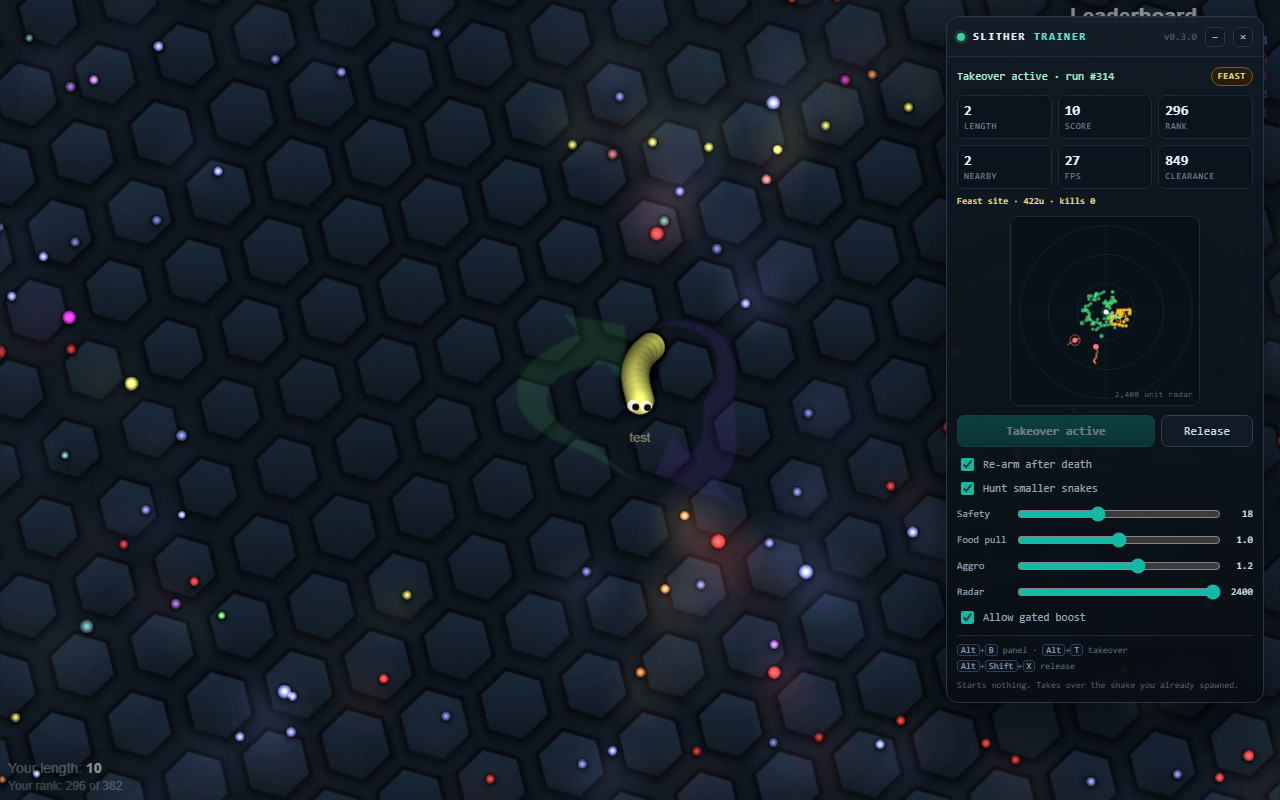
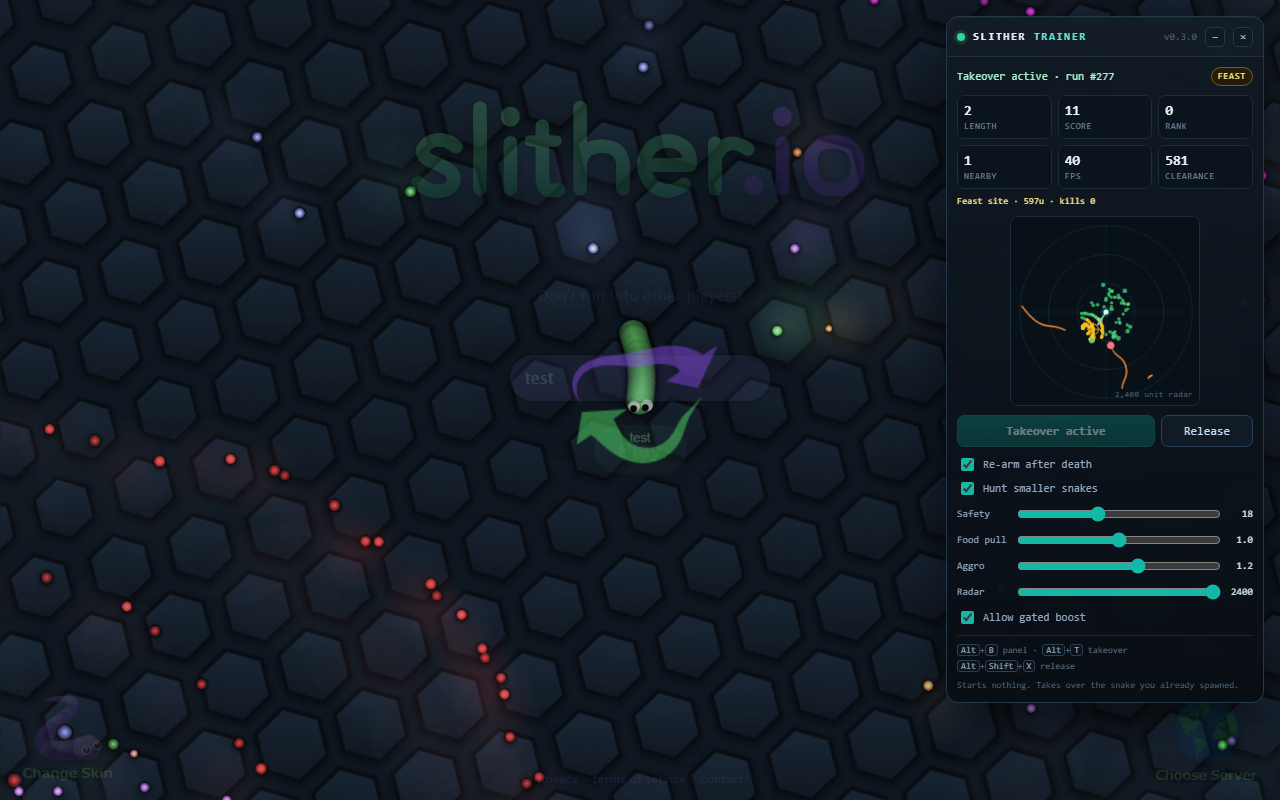
Improve evasive prey hunting behavior
Refine hunt targeting, flank maneuvers, and boost timing to pursue evasive snakes while reducing risky close-range chases. Add evasive-prey simulation modes and update trainer assets.

diff --git a/panel/trainer/trainer.js b/panel/trainer/trainer.js
@@ -83,8 +83,8 @@
     CUT_BOOST_COOLDOWN: 3400,
     CHASE_BOOST_MS: 280,
     CHASE_BOOST_COOLDOWN: 2600,
-    HUNT_BOOST_MS: 500,
-    HUNT_BOOST_COOLDOWN: 1000,
+    HUNT_BOOST_MS: 700,
+    HUNT_BOOST_COOLDOWN: 450,
     PREV_BONUS: 10,
     RADAR_RANGE: 2400,
     HUNT_MIN_LEN: 6,
@@ -222,6 +222,8 @@
     huntTargetId: null,
     huntTarget: null,
     huntUntil: 0,
+    huntCooldownId: null,
+    huntCooldownUntil: 0,
     kills: 0,
     corpse: null,
     deadIds: {},
@@ -700,10 +702,23 @@
       byId[threats.snakes[i].id] = threats.snakes[i];
     }
     var current = state.huntTargetId ? byId[String(state.huntTargetId)] : null;
-    if (current && now < state.huntUntil && current.d < TUNE.HUNT_MAX_DIST * 1.3 &&
+    var currentCooling = current && state.huntCooldownId &&
+      String(state.huntCooldownId) === String(current.id) &&
+      now < state.huntCooldownUntil;
+    if (current && !currentCooling && now < state.huntUntil &&
+        current.d < TUNE.HUNT_MAX_DIST * 1.3 &&
         current.sct <= selfLen * 0.98) {
-      state.huntTarget = current;
-      return current;
+      var currentToT = Math.atan2(current.y - me.yy, current.x - me.xx);
+      var currentAway = Math.cos(angleDiff(current.ang, currentToT));
+      // A target that boosts or turns into a faster runner is no longer a
+      // kill; it is a chase that drags the trainer across the map. Drop the
+      // lock before that happens, not after thirty seconds of pursuit.
+      var uncatchable = (current.boost && current.d > 200) ||
+        (currentAway > 0.55 && current.speed >= selfSpeed * 0.98);
+      if (!uncatchable) {
+        state.huntTarget = current;
+        return current;
+      }
     }
 
     var aggression = clamp(num(state.settings.aggression, 1), 0, 2);
@@ -715,6 +730,11 @@
     var best = null;
     for (i = 0; i < threats.snakes.length; i++) {
       var s = threats.snakes[i];
+      // A target that just forced us to bail out at head-contact range gets
+      // a short cooldown. Reacquiring it immediately made the trainer turn
+      // straight back into the body it had just escaped.
+      if (state.huntCooldownId && now < state.huntCooldownUntil &&
+          String(state.huntCooldownId) === String(s.id)) continue;
       if (s.sct < 4 || s.sct > selfLen * maxRatio) continue;
       if (s.d < TUNE.HUNT_MIN_DIST || s.d > maxDist) continue;
       if (s.boost && s.d > 260) continue;
@@ -729,9 +749,11 @@
       if (targetWall < 360) continue;
       var toTarget = Math.atan2(s.y - me.yy, s.x - me.xx);
       var away = Math.cos(angleDiff(s.ang, toTarget));
-      // A smaller snake running directly away at the same speed cannot be
-      // caught without a risky boost. Ignore it and look for a crossing.
-      if (away > 0.55 && s.speed >= selfSpeed * 0.9) continue;
+      // A snake running directly away at our speed or faster cannot be
+      // caught without giving up the farming line, and following it drags
+      // the trainer across the map for nothing. Slower runners and crossing
+      // snakes stay on the list; those are the catchable kills.
+      if (away > 0.55 && s.speed >= selfSpeed * 0.98) continue;
       var ratio = s.sct / Math.max(1, selfLen);
       var score = 50 + s.sct * 1.4 + (maxDist - s.d) * 0.045 -
         ratio * 28 - crowd * 26 - (s.boost ? 35 : 0);
@@ -918,6 +940,9 @@
         // instead of rear-ending its tail, then cut across when we are ahead.
         var chaseLead = clamp(td / Math.max(180, ctx.speed + htSpeed), 0.25, 1.6);
         var sideOff = ht.r + selfR + safety + 30;
+        // Close to a fleeing snake, the normal standoff is too narrow to
+        // clear its tail. Open the flank so a boost can actually overtake.
+        if (td < 420) sideOff *= 1.5;
         var chaseX = htX + Math.cos(htAng) * htSpeed * chaseLead -
           Math.sin(htAng) * sideOff * ctx.huntSide;
         var chaseY = htY + Math.sin(htAng) * htSpeed * chaseLead +
@@ -1037,13 +1062,27 @@
 
     var target = selectHuntTarget(me, threats, arena, now);
     var selfLen = Math.max(0, num(me.sct, 0));
+    if (target && target.d < selfR + snakeRadius(target) + 70 &&
+        (target.sct >= Math.max(16, selfLen * 0.75) || target.boost)) {
+      // Head-to-head at this range is a coin flip: our head can touch the
+      // target body just as easily as its head can touch ours. Bail out,
+      // let the target run into the body behind us, and do not reacquire it
+      // for a moment. A genuinely tiny snake has a short body and cannot
+      // cover the same distance, so the close cut is still worth taking.
+      state.huntCooldownId = String(target.id);
+      state.huntCooldownUntil = now + 1200;
+      target = null;
+      state.huntTarget = null;
+      state.huntTargetId = null;
+      state.boostUntil = 0;
+    }
     var modeDanger = danger;
     if (target) {
       // Ignore the target itself when deciding whether hunting is safe.
       // Otherwise an incoming smaller snake would always look like danger,
       // and the trainer would flee instead of cutting across its nose.
       modeDanger = assessDanger(me, threats, arena, target.id);
-      var keepSmall = target.sct < selfLen * 0.8 && target.d < 520;
+      var keepSmall = target.sct < selfLen * 0.65 && target.d < 380;
       if ((modeDanger.urgent || modeDanger.level > 0.58) && !keepSmall) {
         target = null;
         state.huntTarget = null;
@@ -1055,9 +1094,14 @@
           (target.y - me.yy) * Math.sin(target.ang);
         if (target.d < 340 && along < -30) target.maneuver = 'cut';
         else if (target.d < 420 && facing < -0.1) target.maneuver = 'cut';
+        else if (target.d < 240 && facing > 0.4) target.maneuver = 'cut';
         else if (facing > 0.3) target.maneuver = 'chase';
-        else if (target.d < 460) target.maneuver = 'coil';
-        else target.maneuver = 'hunt';
+        else if (target.d < 460) {
+          // A slower target cannot outrun the cut; circling it with coil
+          // only burns time. Equal or faster prey is the case where the
+          // tangent coil actually helps bring the body around.
+          target.maneuver = target.speed < baseSpeed * 0.95 ? 'cut' : 'coil';
+        } else target.maneuver = 'hunt';
         target.huntSide = chooseHuntSide(me, target, arena, threats.heads);
         var fromTarget = Math.atan2(me.yy - target.y, me.xx - target.x);
         var lateral = Math.sin(angleDiff(fromTarget, target.ang));
@@ -1073,12 +1117,22 @@
         state.huntTarget = target;
       }
     }
+    if (modeDanger.chase) state.chaseUntil = now + 1600;
+    var chaseActive = now < state.chaseUntil;
     if (chaseActive) {
-      modeDanger.level = Math.max(modeDanger.level, 0.62);
-      if (target) {
-        target = null;
-        state.huntTarget = null;
-        state.huntTargetId = null;
+      // A small target can be finished quickly, but only when the snake
+      // chasing us is still far away. Ignoring a close chaser to chase a
+      // minnow is how a short run turns into a death.
+      var chaser = modeDanger.nearest || danger.nearest;
+      var committedSmall = target && target.sct < selfLen * 0.7 &&
+        target.d < 320 && (!chaser || chaser.d > 650);
+      if (!committedSmall) {
+        modeDanger.level = Math.max(modeDanger.level, 0.62);
+        if (target) {
+          target = null;
+          state.huntTarget = null;
+          state.huntTargetId = null;
+        }
       }
     }
 
@@ -1240,13 +1294,20 @@
     else if (state.corpse && state.settings.foodPull > 0) mode = 'feast';
     else if (best.foodScore > 0.5) mode = 'farm';
 
-    // A hunt that is already scraping a body is not a hunt; it is a
-    // survival problem. Drop the target and let clearance lead.
-    if (target && best.minClear < TUNE.DANGER_CLEAR) {
+    // The target's own body is part of minClear, so a normal close chase
+    // routinely sits below DANGER_CLEAR. Dropping the hunt at the full
+    // threshold turned every equal-speed pursuit into a stalemate. A slower
+    // target cannot ram us, so press that kill all the way in; against an
+    // equal or faster snake, abandon a genuinely tight line and cancel the
+    // hunt boost so the trainer cannot coast into the body.
+    var closeLimit = target && target.speed < baseSpeed * 0.95 ?
+      0 : TUNE.DANGER_CLEAR * 0.5;
+    if (target && best.minClear < closeLimit) {
       mode = 'danger';
       target = null;
       state.huntTarget = null;
       state.huntTargetId = null;
+      state.boostUntil = 0;
     }
 
     var boost = now < state.boostUntil;
@@ -1278,7 +1339,7 @@
     // only when the current path is clear; it is never used to chase food.
     if (!boost && target && state.settings.boostEscape &&
         now > state.cutBoostCooldownUntil && mode === 'cut' &&
-        target.d > 120 && target.d < 540 && num(me.sct, 0) >= 24 &&
+        target.d > 120 && target.d < 540 && num(me.sct, 0) >= 12 &&
         best.minClear > 20 && best.minWall > 120) {
       var cutTo = Math.atan2(target.y - me.yy, target.x - me.xx);
       if (Math.cos(angleDiff(best.heading, cutTo)) > 0.05) {
@@ -1308,13 +1369,28 @@
     if (!boost && target && state.settings.boostEscape && mode !== 'escape' &&
         now > state.huntBoostCooldownUntil &&
         (mode === 'cut' || mode === 'chase' || mode === 'coil' || mode === 'hunt') &&
-        target.d > 110 && target.d < 620 &&
+        target.d > 110 && target.d < TUNE.HUNT_MAX_DIST * 1.15 &&
         target.speed < baseSpeed * 1.06 &&
         target.sct <= num(me.sct, 0) * 0.92 &&
-        num(me.sct, 0) >= 12 &&
-        best.minClear > 26 && best.minWall > 120) {
+        num(me.sct, 0) >= 8 &&
+        // The target's own body is part of minClear. A fixed 26-unit gate
+        // therefore disables the boost exactly when the prey is close enough
+        // to catch, leaving the trainer to follow at equal speed forever.
+        best.minClear > TUNE.DANGER_CLEAR - 2 && best.minWall > 120) {
+      var huntFromT = Math.atan2(me.yy - target.y, me.xx - target.x);
+      var huntLat = Math.abs(Math.sin(angleDiff(huntFromT, target.ang))) * target.d;
       var huntTo = Math.atan2(target.y - me.yy, target.x - me.xx);
-      if (Math.cos(angleDiff(best.heading, huntTo)) > 0.1) {
+      var huntAlign = Math.cos(angleDiff(best.heading, huntTo));
+      // Directly behind a close, equal-speed snake, boosting straight at it
+      // only pushes our head into its tail. A slower target is still safe to
+      // run down. Against an equal-speed kiter, boost only when the planned
+      // line is visibly off the tail and there is enough clearance to pass.
+      var tailRisk = huntLat < 45 && target.d < 300 &&
+        target.speed > baseSpeed * 0.95;
+      var flankBoost = !tailRisk ||
+        (huntAlign < 0.97 && target.d > 190 && best.minClear > TUNE.DANGER_CLEAR);
+      if (flankBoost && huntAlign > -0.6 &&
+          (target.d > 260 || huntLat > 70 || huntAlign < 0.86)) {
         state.boostUntil = now + TUNE.HUNT_BOOST_MS;
         state.huntBoostCooldownUntil = now + TUNE.HUNT_BOOST_MS + TUNE.HUNT_BOOST_COOLDOWN;
         boost = true;
@@ -2160,6 +2236,8 @@
     state.huntTargetId = null;
     state.huntTarget = null;
     state.huntUntil = 0;
+    state.huntCooldownId = null;
+    state.huntCooldownUntil = 0;
     state.cutBoostCooldownUntil = 0;
     state.chaseBoostCooldownUntil = 0;
     state.huntBoostCooldownUntil = 0;
@@ -2343,3 +2421,4 @@
 
   boot();
 })();
+

diff --git a/panel/trainer/tests/sim_modes.html b/panel/trainer/tests/sim_modes.html
@@ -128,6 +128,23 @@
     var peerPrey = makeEnemy(2, 16384 + 330, 16384 + 20, Math.PI / 2, 4.8, 52);
     peerPrey.noHome = true;
     enemies = [peerPrey];
+  } else if (mode === "hunt_evasive") {
+    // Live prey does not drive in a straight line. It turns away from the
+    // player and refuses to run into a body, which is the case a straight
+    // line test never exercises.
+    selfMax = 60;
+    self.sct = 60;
+    var evasivePrey = makeEnemy(2, 16384 + 330, 16384 + 20, Math.PI / 2, 5.5, 20);
+    evasivePrey.noHome = true;
+    evasivePrey.evasive = true;
+    enemies = [evasivePrey];
+  } else if (mode === "hunt_evasive_peer") {
+    selfMax = 60;
+    self.sct = 60;
+    var evasivePeer = makeEnemy(2, 16384 + 330, 16384 + 20, Math.PI / 2, 5.0, 52);
+    evasivePeer.noHome = true;
+    evasivePeer.evasive = true;
+    enemies = [evasivePeer];
   } else if (mode === "hunt_bigger") {
     selfMax = 40;
     self.sct = 40;
@@ -303,9 +320,31 @@
     for (var e = 0; e < enemies.length; e++) {
       var o = enemies[e];
       if (!o.sp || o.dead) continue;
-      if (!o.noHome) {
+      var want;
+      if (o.evasive) {
+        // Run from the player's head, but also steer away from its body.
+        // A pure away vector lets the trainer herd prey in a circle; the
+        // repulsion makes the prey contest the actual body trap.
+        var flee = Math.atan2(o.yy - self.yy, o.xx - self.xx);
+        var vx = Math.cos(flee);
+        var vy = Math.sin(flee);
+        for (var q = 0; q < self.pts.length; q += 3) {
+          var bp = self.pts[q];
+          var bdx = o.xx - bp.xx;
+          var bdy = o.yy - bp.yy;
+          var bd = Math.hypot(bdx, bdy);
+          if (bd > 1 && bd < 240) {
+            var push = (1 - bd / 240) * 2.2;
+            vx += bdx / bd * push;
+            vy += bdy / bd * push;
+          }
+        }
+        want = Math.atan2(vy, vx);
+      } else if (!o.noHome) {
         // Home toward the player so head-on and crossing scenarios stay honest.
-        var want = Math.atan2(self.yy - o.yy, self.xx - o.xx);
+        want = Math.atan2(self.yy - o.yy, self.xx - o.xx);
+      }
+      if (want !== undefined) {
         var d = (want - o.ang + Math.PI) % (Math.PI * 2);
         if (d < 0) d += Math.PI * 2;
         d -= Math.PI;

diff --git a/panel/trainer/tests/test_modes.py b/panel/trainer/tests/test_modes.py
@@ -39,6 +39,8 @@ DEFAULT_MODES = [
     "hunt_flee",
     "hunt_early",
     "hunt_peer",
+    "hunt_evasive",
+    "hunt_evasive_peer",
     "hunt_bigger",
     "hunt_crowd",
     "body_far_head",
@@ -84,8 +86,14 @@ def main() -> int:
                     ".shadowRoot.getElementById('takeBtn').click()"
                 )
                 # Early/peer chases need enough time to close a 300+ unit gap
-                # without a cut boost; keep the rest of the suite fast.
-                seconds = max(args.seconds, 12.0) if mode in ("hunt_early", "hunt_peer") else args.seconds
+                # without a cut boost; the early target is short and the
+                # first cut can overshoot, so give it a little more margin.
+                if mode == "hunt_early":
+                    seconds = max(args.seconds, 16.0)
+                elif mode in ("hunt_peer", "hunt_evasive", "hunt_evasive_peer"):
+                    seconds = max(args.seconds, 12.0)
+                else:
+                    seconds = args.seconds
                 early = None
                 if mode == "body_target_last":
                     # The trainer is now aggressive enough to kill this
@@ -151,6 +159,11 @@ def main() -> int:
                     ok = ok and (final_target_ok or early_target_ok)
                 if mode in ("hunt_early", "hunt_peer"):
                     ok = ok and info["sim"].get("kills", 0) >= 1
+                # hunt_evasive / hunt_evasive_peer are pressure scenarios:
+                # the prey flees perfectly and matches our speed, so the
+                # trainer must survive and keep pursuing without ramming the
+                # body. A kill is not required because that kiter can always
+                # turn away in open space.
                 results.append((mode, ok, info, errors))
                 print(
                     ("PASS" if ok else "FAIL"),
